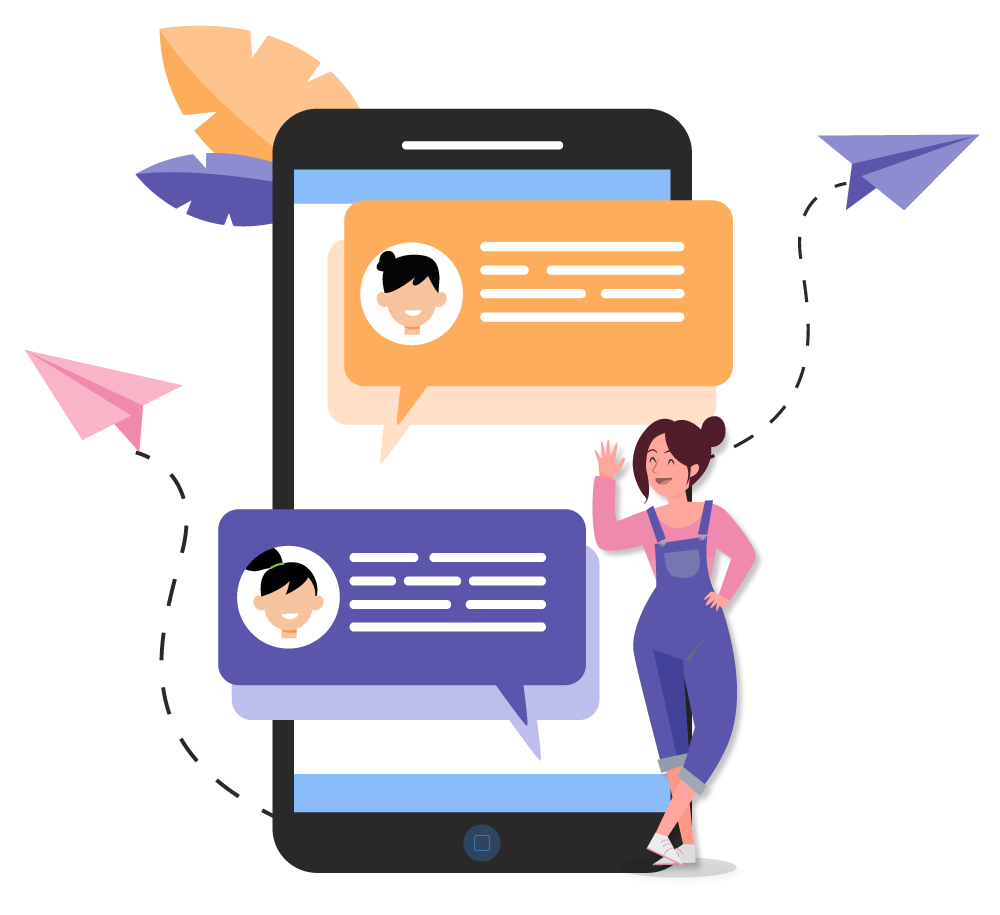
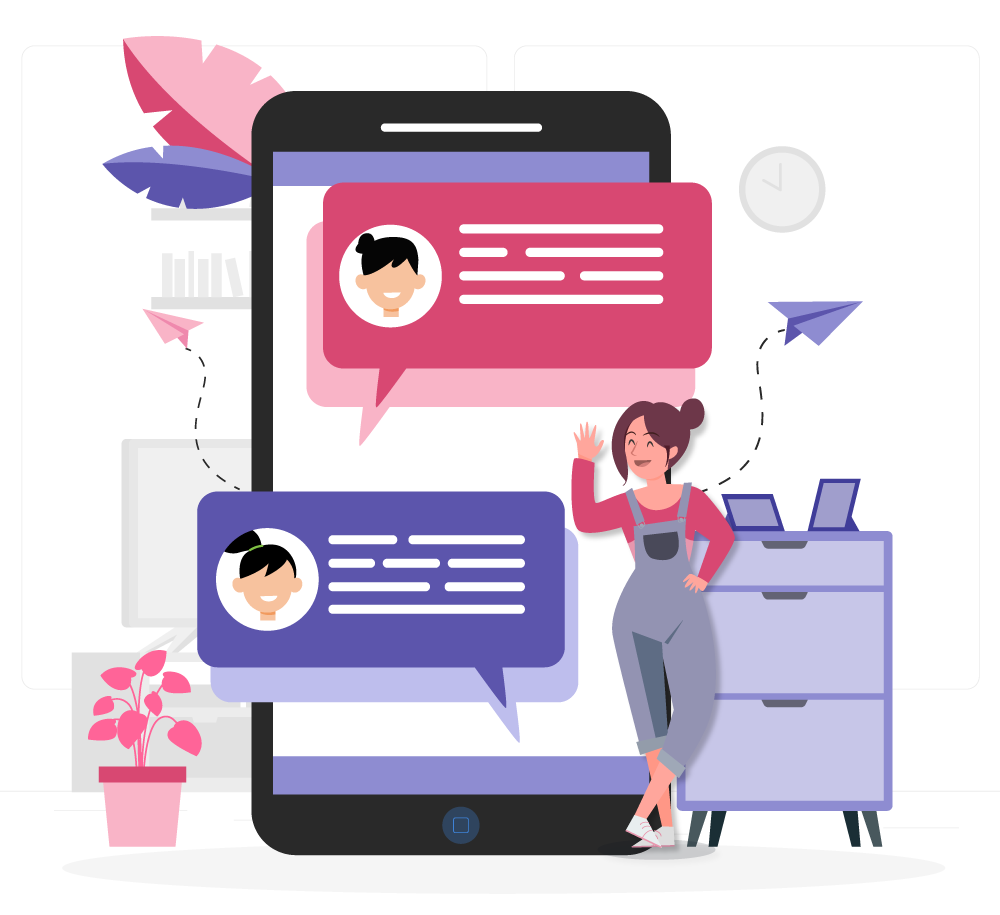
modificaciones con css en editar perfil - día8

diff --git a/src/lib/Archivos JS/editProfile.js b/src/lib/Archivos JS/editProfile.js
@@ -27,9 +27,6 @@ export const editProfile = () => {
   const p2 = document.createElement('p');
   const editDescription = document.createElement('textarea');
   const saveChanges = document.createElement('button');
-  const homeDiv4 = document.createElement('div');
-  const p3 = document.createElement('p');
-  const p6 = document.createElement('p');
 
   homeDiv.className = 'container';
   container.className = 'container-im-and-register';
@@ -38,37 +35,34 @@ export const editProfile = () => {
   titleImg.className = 'img-title';
   title.textContent = 'Mi Perfil';
   title.className = 'title-register';
-  imgwelcome.src = './lib/img/Women-cel.png';
+  imgwelcome.src = './lib/img/Women-profile.png';
   imgwelcome.className = 'img-welcome-2';
   imgTop.src = './lib/img/collage-3.png';
   imgTop.className = 'img-top-2';
   imgBottom.src = './lib/img/collage-5.png';
   imgBottom.className = 'img-bottom-2';
   containerRegister.className = 'container-register';
-  p.textContent = 'Usuario';
+  p.textContent = 'Editar Nombre de Usuario:';
   p.className = 'text-subtitle2';
-  avatar.src = './lib/img/Ellipse9.png';
+  avatar.referrerPolicy='no-referrer';
+  avatar.src = `${user.photoURL}`;
   avatar.className = 'avatar-class';
   fondoImagen.className = 'avatar-class';
-  p2.textContent = 'Descripción';
+  p2.textContent = 'Editar Descripción:';
   p2.className = 'text-subtitle2';
-  p3.textContent = 'Email';
-  p3.className = 'text-subtitle2';
   editName.type = 'text';
   editName.placeholder = `${user.displayName}`;
   editName.id = 'editName';
-  editName.className = 'text-subtitle3';
+  editName.className = 'text-content-description';
   editDescription.rows = '3';
-  editDescription.placeholder = 'klkfnladfnjadlfjnakedhfk';
+  editDescription.placeholder = 'Hola, me encanta mucho...';
   editDescription.id = 'editDescription';
-  editDescription.className = 'text-subtitle4';
-  p6.textContent = `${user.email}`;
-  p6.className = 'text-subtitle3';
-  saveChanges.id = 'saveChanges'
-  saveChanges.textContent = 'Guardar cambios'
+  editDescription.className = 'text-content-description';
+  saveChanges.id = 'saveChanges';
+  saveChanges.textContent = 'Guardar Cambios';
+  saveChanges.className = 'buttonRegister';
   homeDiv2.className = 'container-div';
   homeDiv3.className = 'container-div';
-  homeDiv4.className = 'container-div';
 
   homeDiv.appendChild(container);
   container.appendChild(containerRegister);
@@ -81,15 +75,12 @@ export const editProfile = () => {
   fondoImagen.appendChild(avatar);
   containerRegister.appendChild(fondoImagen);
   homeDiv2.appendChild(p);
+  homeDiv2.appendChild(editName);
   containerRegister.appendChild(homeDiv2);
-  homeDiv3.appendChild(editName);
   homeDiv3.appendChild(p2);
   homeDiv3.appendChild(editDescription);
   homeDiv3.appendChild(saveChanges);
   containerRegister.appendChild(homeDiv3);
-  homeDiv4.appendChild(p3);
-  homeDiv4.appendChild(p6);
-  containerRegister.appendChild(homeDiv4);
 
    saveChanges.addEventListener('click', () => {
     onNavigate('/profile');

diff --git a/src/lib/Achivos css/style-profile.css b/src/lib/Achivos css/style-profile.css
@@ -67,11 +67,26 @@
   display: none;
 }
 
+/*edit Profile*/
+
+.text-content-description{
+  border: none;
+  width: 100%;
+  font-family: "Poppins", sans-serif;
+  text-align: center;
+  font-size: 1rem;
+  padding: 15px;
+  border-radius: 15px;
+  margin-bottom: 10px;
+  box-shadow: 1px 1px 1px 1px rgba(255, 206, 206, 0.805);
+  cursor: pointer;
+}
+
 @media screen and (min-width: 900px) {
 
   .img-welcome-2 {
     display: flex;
-    width: 90%;
+    width: 95%;
     margin-right: 60px;
   }
 }

diff --git a/src/lib/Archivos JS/profile.js b/src/lib/Archivos JS/profile.js
@@ -1,5 +1,4 @@
 import { signOut, getAuth  } from 'firebase/auth';
-import { auth } from './firebase.js';
 // eslint-disable-next-line import/no-cycle
 import { onNavigate } from '../../main';
 
